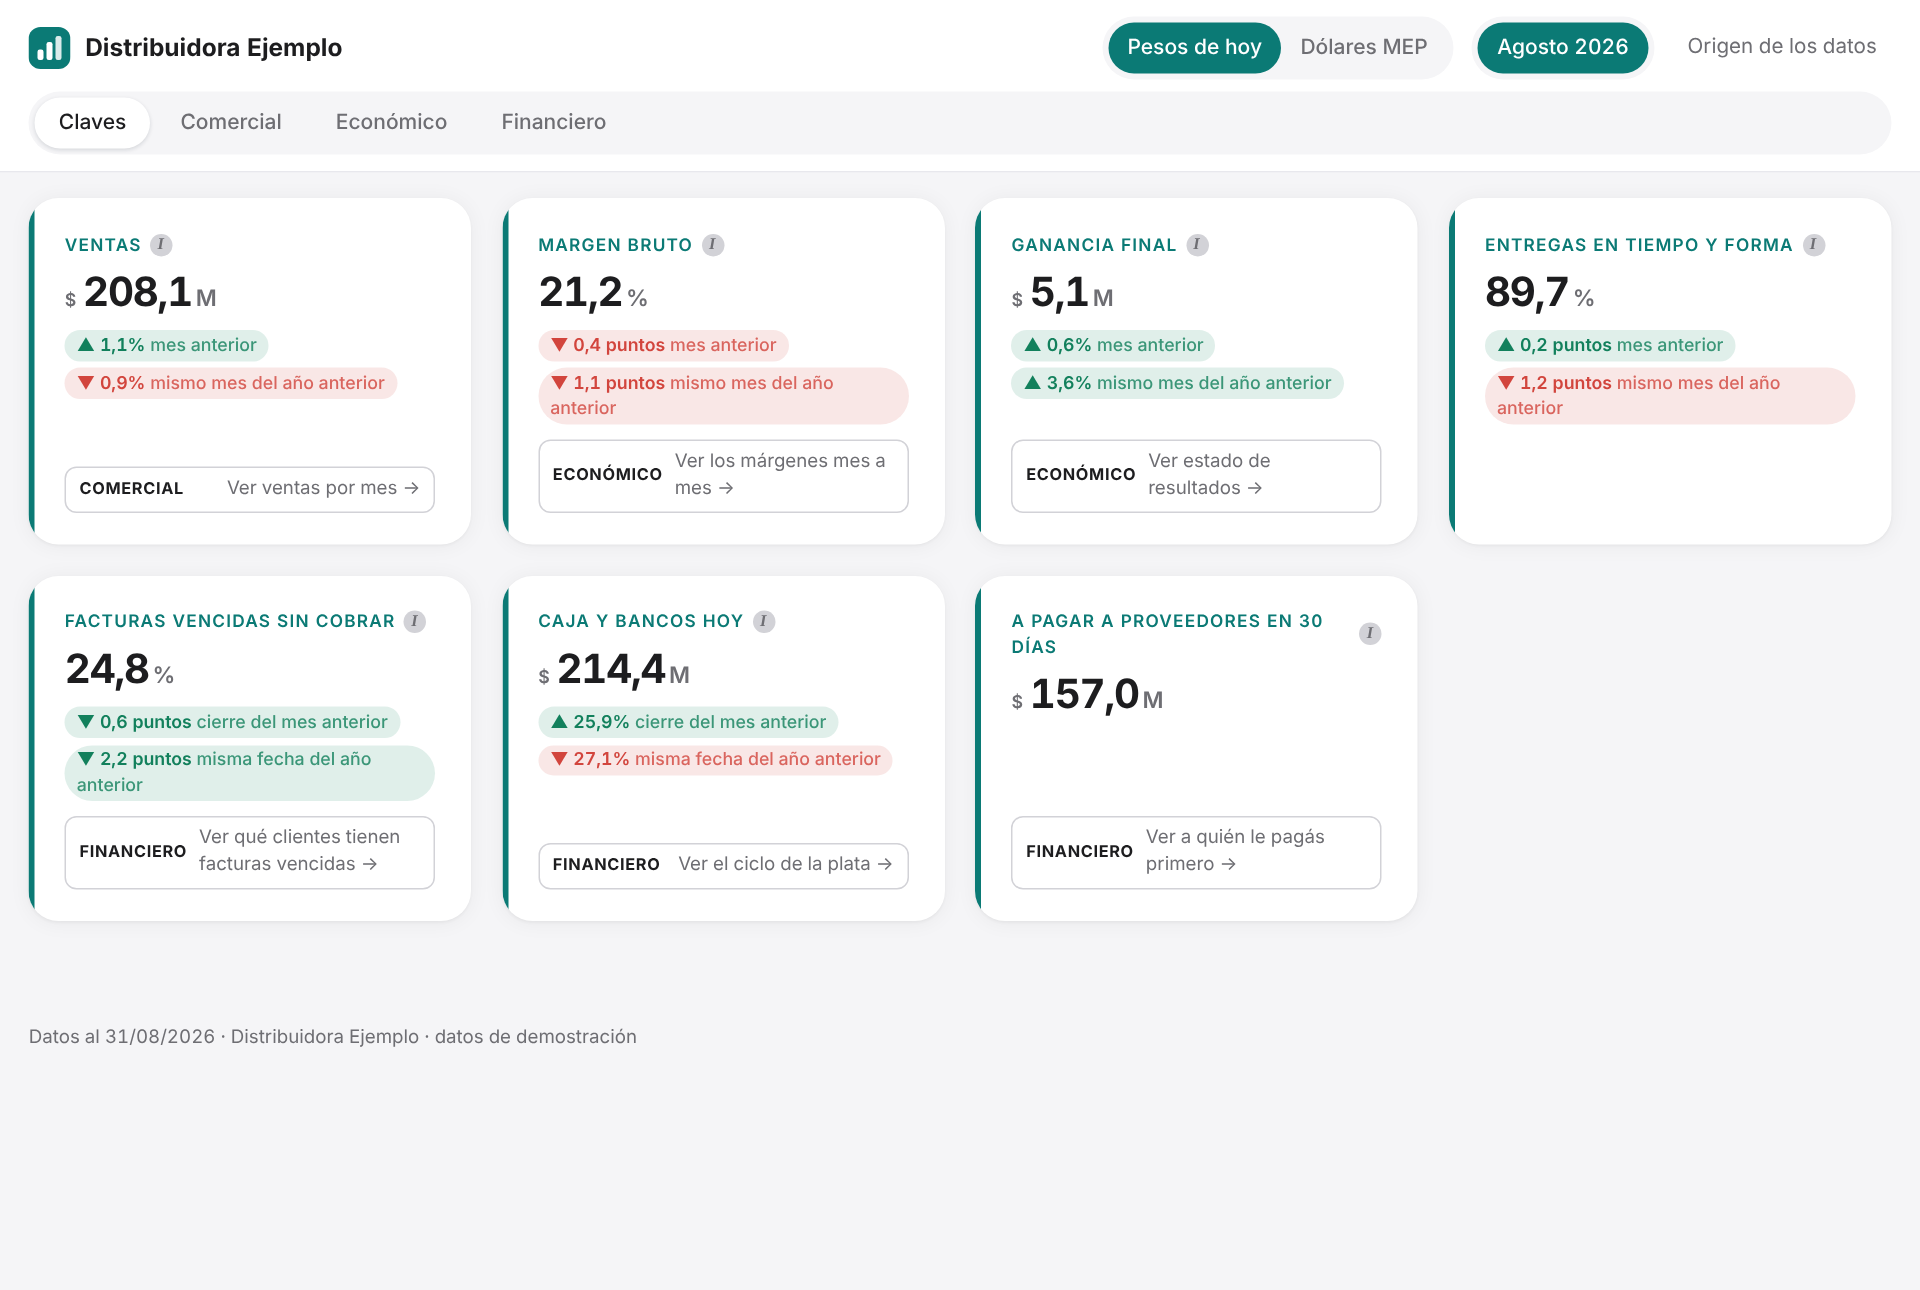
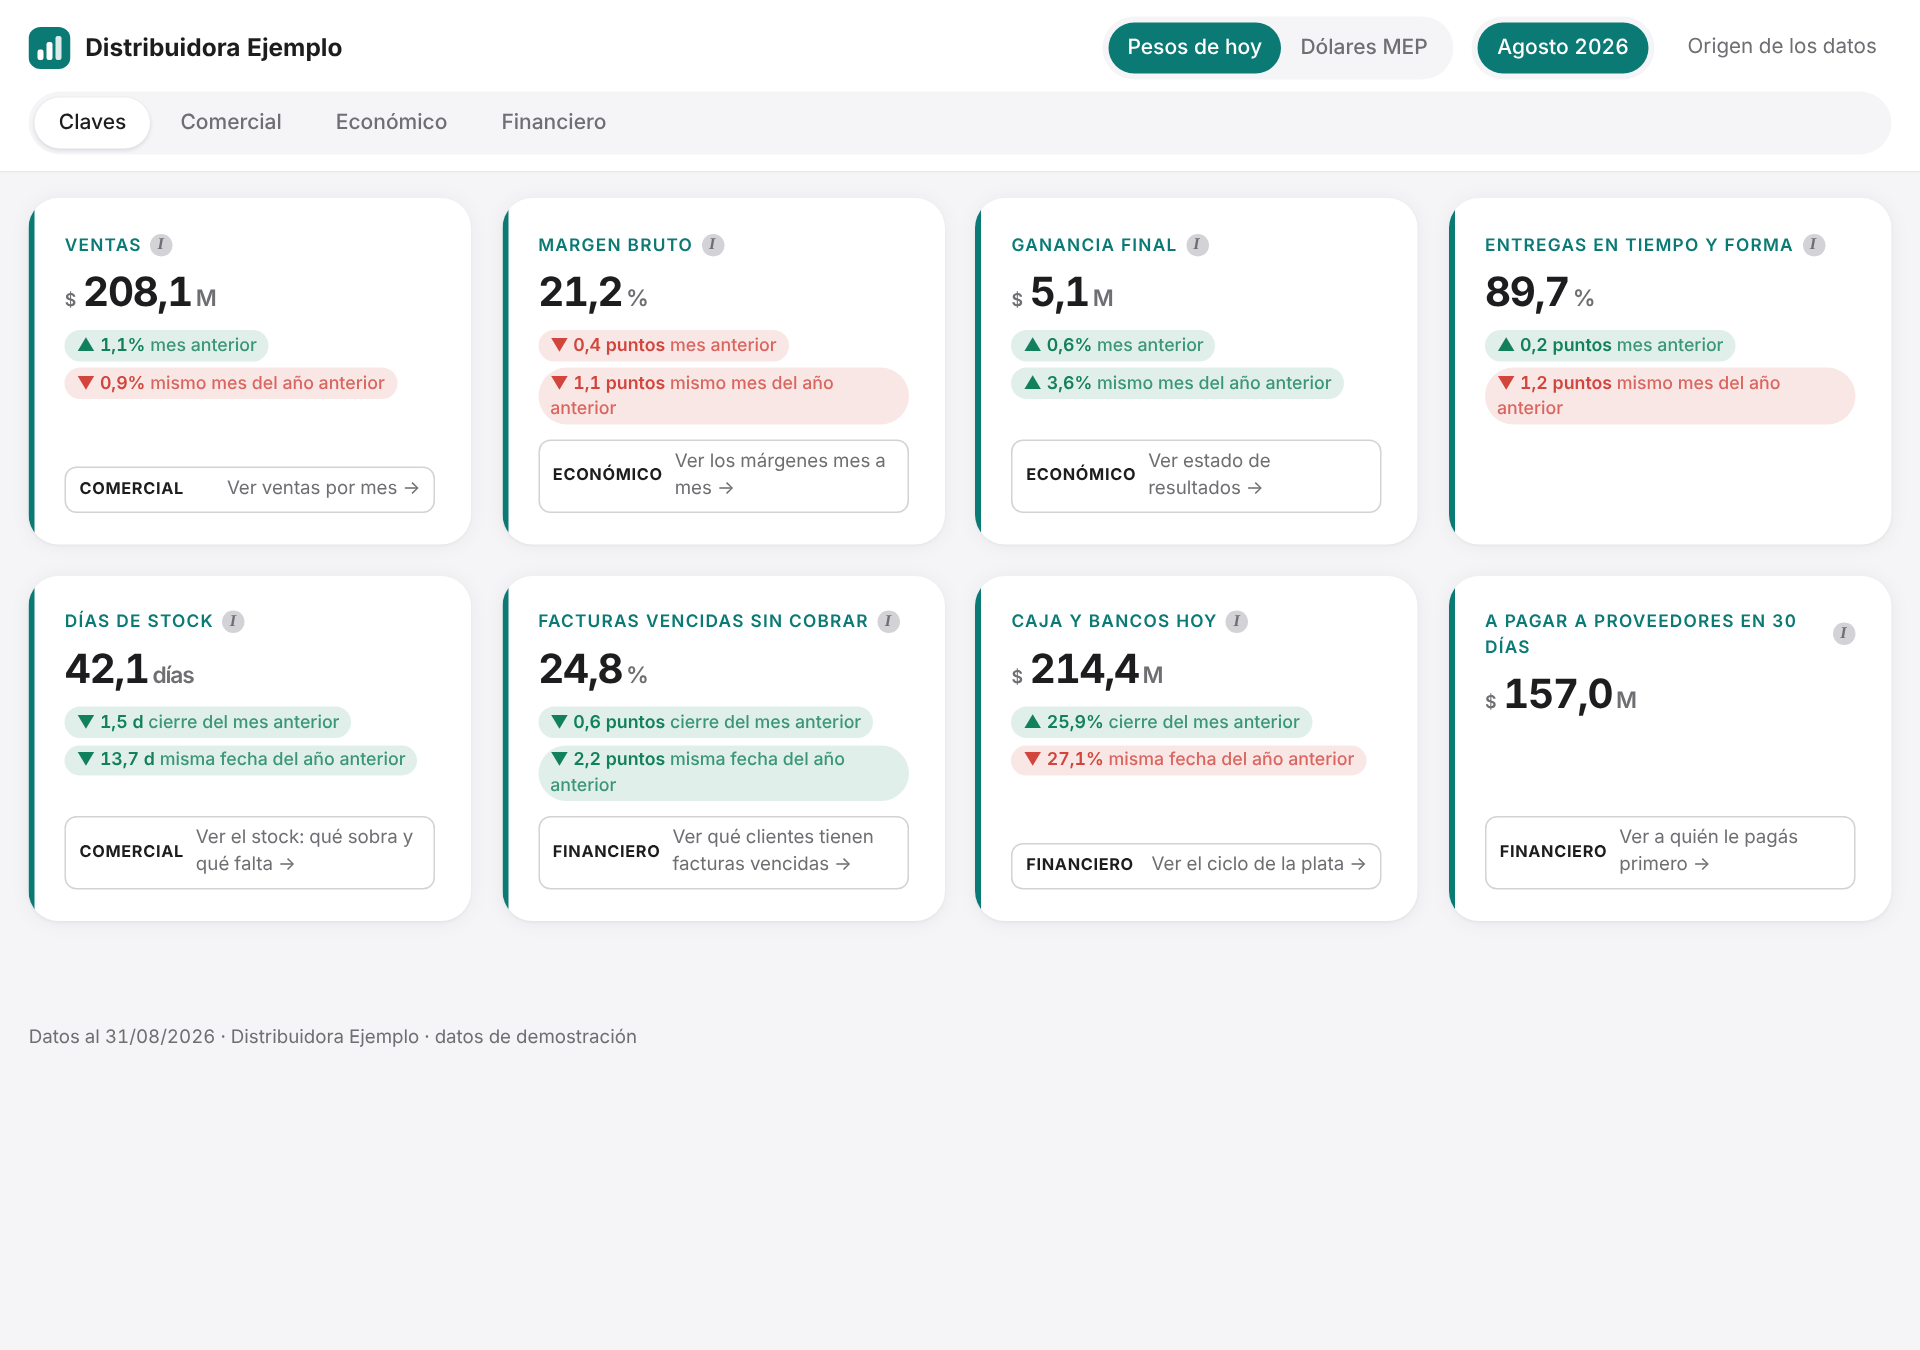
Tablero: tarjeta de días de stock en Claves, con salto a Stock de Comercial
Claude-Session: https://claude.ai/code/session_01BerP5tpH3fTpPqyTaaGzu5

diff --git a/tablero/index.html b/tablero/index.html
@@ -979,7 +979,7 @@ function claveRow(k){
     <details class="clv-det"><summary>Por qué</summary>${p.causa}</details></div></details>`;
 }
 
-const CL_GO={ventas:{tab:'comercial',sx:'ventas',p:'Comercial',l:'Ver ventas por mes'},clientes:{tab:'comercial',sx:'clientes',p:'Comercial',l:'Ver clientes que dejaron de comprar'},margen:{tab:'economico',sx:'ganancia',p:'Económico',l:'Ver los márgenes mes a mes'},resultado:{tab:'economico',sx:'estado',p:'Económico',l:'Ver estado de resultados'},caja:{tab:'financiero',sx:'ciclo',p:'Financiero',l:'Ver el ciclo de la plata'},cobranza:{tab:'financiero',sx:'detalle',p:'Financiero',l:'Ver qué clientes tienen facturas vencidas'},stock:{tab:'comercial',sx:'stock',p:'Comercial',l:'Ver qué productos se venden lento'},cajahoy:{tab:'financiero',sx:'ciclo',p:'Financiero',l:'Ver el ciclo de la plata'},pagar30:{tab:'financiero',sx:'detalle',p:'Financiero',l:'Ver a quién le pagás primero'}};
+const CL_GO={ventas:{tab:'comercial',sx:'ventas',p:'Comercial',l:'Ver ventas por mes'},clientes:{tab:'comercial',sx:'clientes',p:'Comercial',l:'Ver clientes que dejaron de comprar'},margen:{tab:'economico',sx:'ganancia',p:'Económico',l:'Ver los márgenes mes a mes'},resultado:{tab:'economico',sx:'estado',p:'Económico',l:'Ver estado de resultados'},caja:{tab:'financiero',sx:'ciclo',p:'Financiero',l:'Ver el ciclo de la plata'},cobranza:{tab:'financiero',sx:'detalle',p:'Financiero',l:'Ver qué clientes tienen facturas vencidas'},stock:{tab:'comercial',sx:'stock',p:'Comercial',l:'Ver el stock: qué sobra y qué falta'},cajahoy:{tab:'financiero',sx:'ciclo',p:'Financiero',l:'Ver el ciclo de la plata'},pagar30:{tab:'financiero',sx:'detalle',p:'Financiero',l:'Ver a quién le pagás primero'}};
 function claveCard8(k,nogo){
   const p=claveParts(k);
   return `<div class="card kpi clv s3"><span class="bar" style="background:${p.col}"></span>
@@ -992,7 +992,7 @@ function tabClaves(){
   const K=DATA.claves[state.lens], g=id=>K.find(x=>x[0]===id).slice();
   const cob=g('cobranza'); cob[1]='Facturas vencidas sin cobrar';
   const [caja,pagar]=clavesExtra();
-  const L=[g('ventas'),g('margen'),g('resultado'),g('entrega'),cob,caja,pagar];
+  const L=[g('ventas'),g('margen'),g('resultado'),g('entrega'),g('stock'),cob,caja,pagar];
   $('#app').innerHTML=`<div class="g">${L.map(k=>claveCard8(k)).join('')}</div>`;
 }
 function clavesExtra(){

diff --git a/docs/indicadores.md b/docs/indicadores.md
@@ -19,7 +19,7 @@ Cada indicador responde una pregunta concreta del dueño. Salen de las vistas de
 
 Los porcentajes, los días y las unidades dan igual en las dos monedas. El tablero muestra la tabla de inflación y de dólar MEP usada mes por mes.
 
-## Claves: los 7 indicadores del mes
+## Claves: los 8 indicadores del mes
 
 | Indicador | Pregunta del dueño | Cómo se calcula | Por qué importa en una distribuidora |
 | --- | --- | --- | --- |
@@ -27,6 +27,7 @@ Los porcentajes, los días y las unidades dan igual en las dos monedas. El table
 | Margen bruto | ¿Cuánto me queda de cada venta? | (Ventas − costo de la mercadería vendida) ÷ ventas | Un punto de margen es una parte grande de la ganancia final. |
 | Ganancia final | ¿Estoy ganando plata? | Ventas − costo − gastos − amortizaciones − intereses − impuestos | Es el resultado de todo lo anterior. |
 | Entregas en tiempo y forma | ¿Cumplo con lo que prometo? | Pedidos despachados a tiempo y completos ÷ pedidos despachados | En distribución, la entrega es el servicio. Fallar se paga con clientes que se van. |
+| Días de stock | ¿Tengo plata parada en el depósito? | Stock promedio del mes ÷ costo de lo vendido por día | El stock es plata inmovilizada y riesgo de vencimiento. La tarjeta lleva a la sección Stock de Comercial. |
 | Facturas vencidas sin cobrar | ¿Me pagan a tiempo? | Saldo a cobrar ya vencido ÷ saldo total a cobrar | Vender con plazo es financiar al cliente; lo vencido es financiamiento que no se pactó. |
 | Caja y bancos hoy | ¿Cuánta plata tengo? | Saldo de las cuentas de caja y bancos del mayor al 31/08/2026 | Es lo que sostiene los pagos si los clientes se atrasan. |
 | A pagar a proveedores en 30 días | ¿Cuánto tengo que pagar en el próximo mes? | Facturas de proveedores que vencen hasta el 30/09/2026, más las ya vencidas sin pagar | Comparado con la caja, muestra si alcanza la plata para cumplir. |

diff --git a/README.md b/README.md
@@ -37,7 +37,7 @@ Arriba de cada pestaña hay un desplegable con la tabla de inflación y de dóla
 
 | Pestaña | Qué responde | Qué muestra |
 | --- | --- | --- |
-| **Claves** | ¿Cómo estoy este mes? | 7 tarjetas: ventas, margen bruto, ganancia final, entregas en tiempo y forma, facturas vencidas sin cobrar, caja y bancos hoy, y lo que hay que pagar a proveedores en 30 días. Cada una lleva a la pestaña donde está el detalle. |
+| **Claves** | ¿Cómo estoy este mes? | 8 tarjetas: ventas, margen bruto, ganancia final, entregas en tiempo y forma, días de stock, facturas vencidas sin cobrar, caja y bancos hoy, y lo que hay que pagar a proveedores en 30 días. Cada una lleva a la pestaña donde está el detalle. |
 | **Comercial** | ¿Cuánto vendo, qué deja cada categoría y cómo está el stock? | Ventas por mes (en plata o en unidades), ventas, unidades y margen por categoría, clientes que dejaron de comprar, y stock: días de stock mes a mes, mercadería que sobra (con un ejemplo de cómo se calcula) y productos que faltan o se están por terminar. |
 | **Económico** | ¿Cuánto gano y dónde se va la ganancia? | Márgenes bruto, operativo y neto mes a mes, punto de equilibrio y estado de resultados mes a mes (3, 6, 9, 12 meses o todos), con el detalle de cada renglón. |
 | **Financiero** | ¿Cuántos días está mi plata afuera? ¿A quién le cobro y a quién le pago primero? | Ciclo de la plata en una línea de tiempo (días de stock + días de cobro − días de pago), y el detalle de lo vencido de cada cliente y de lo que vence con cada proveedor. |
